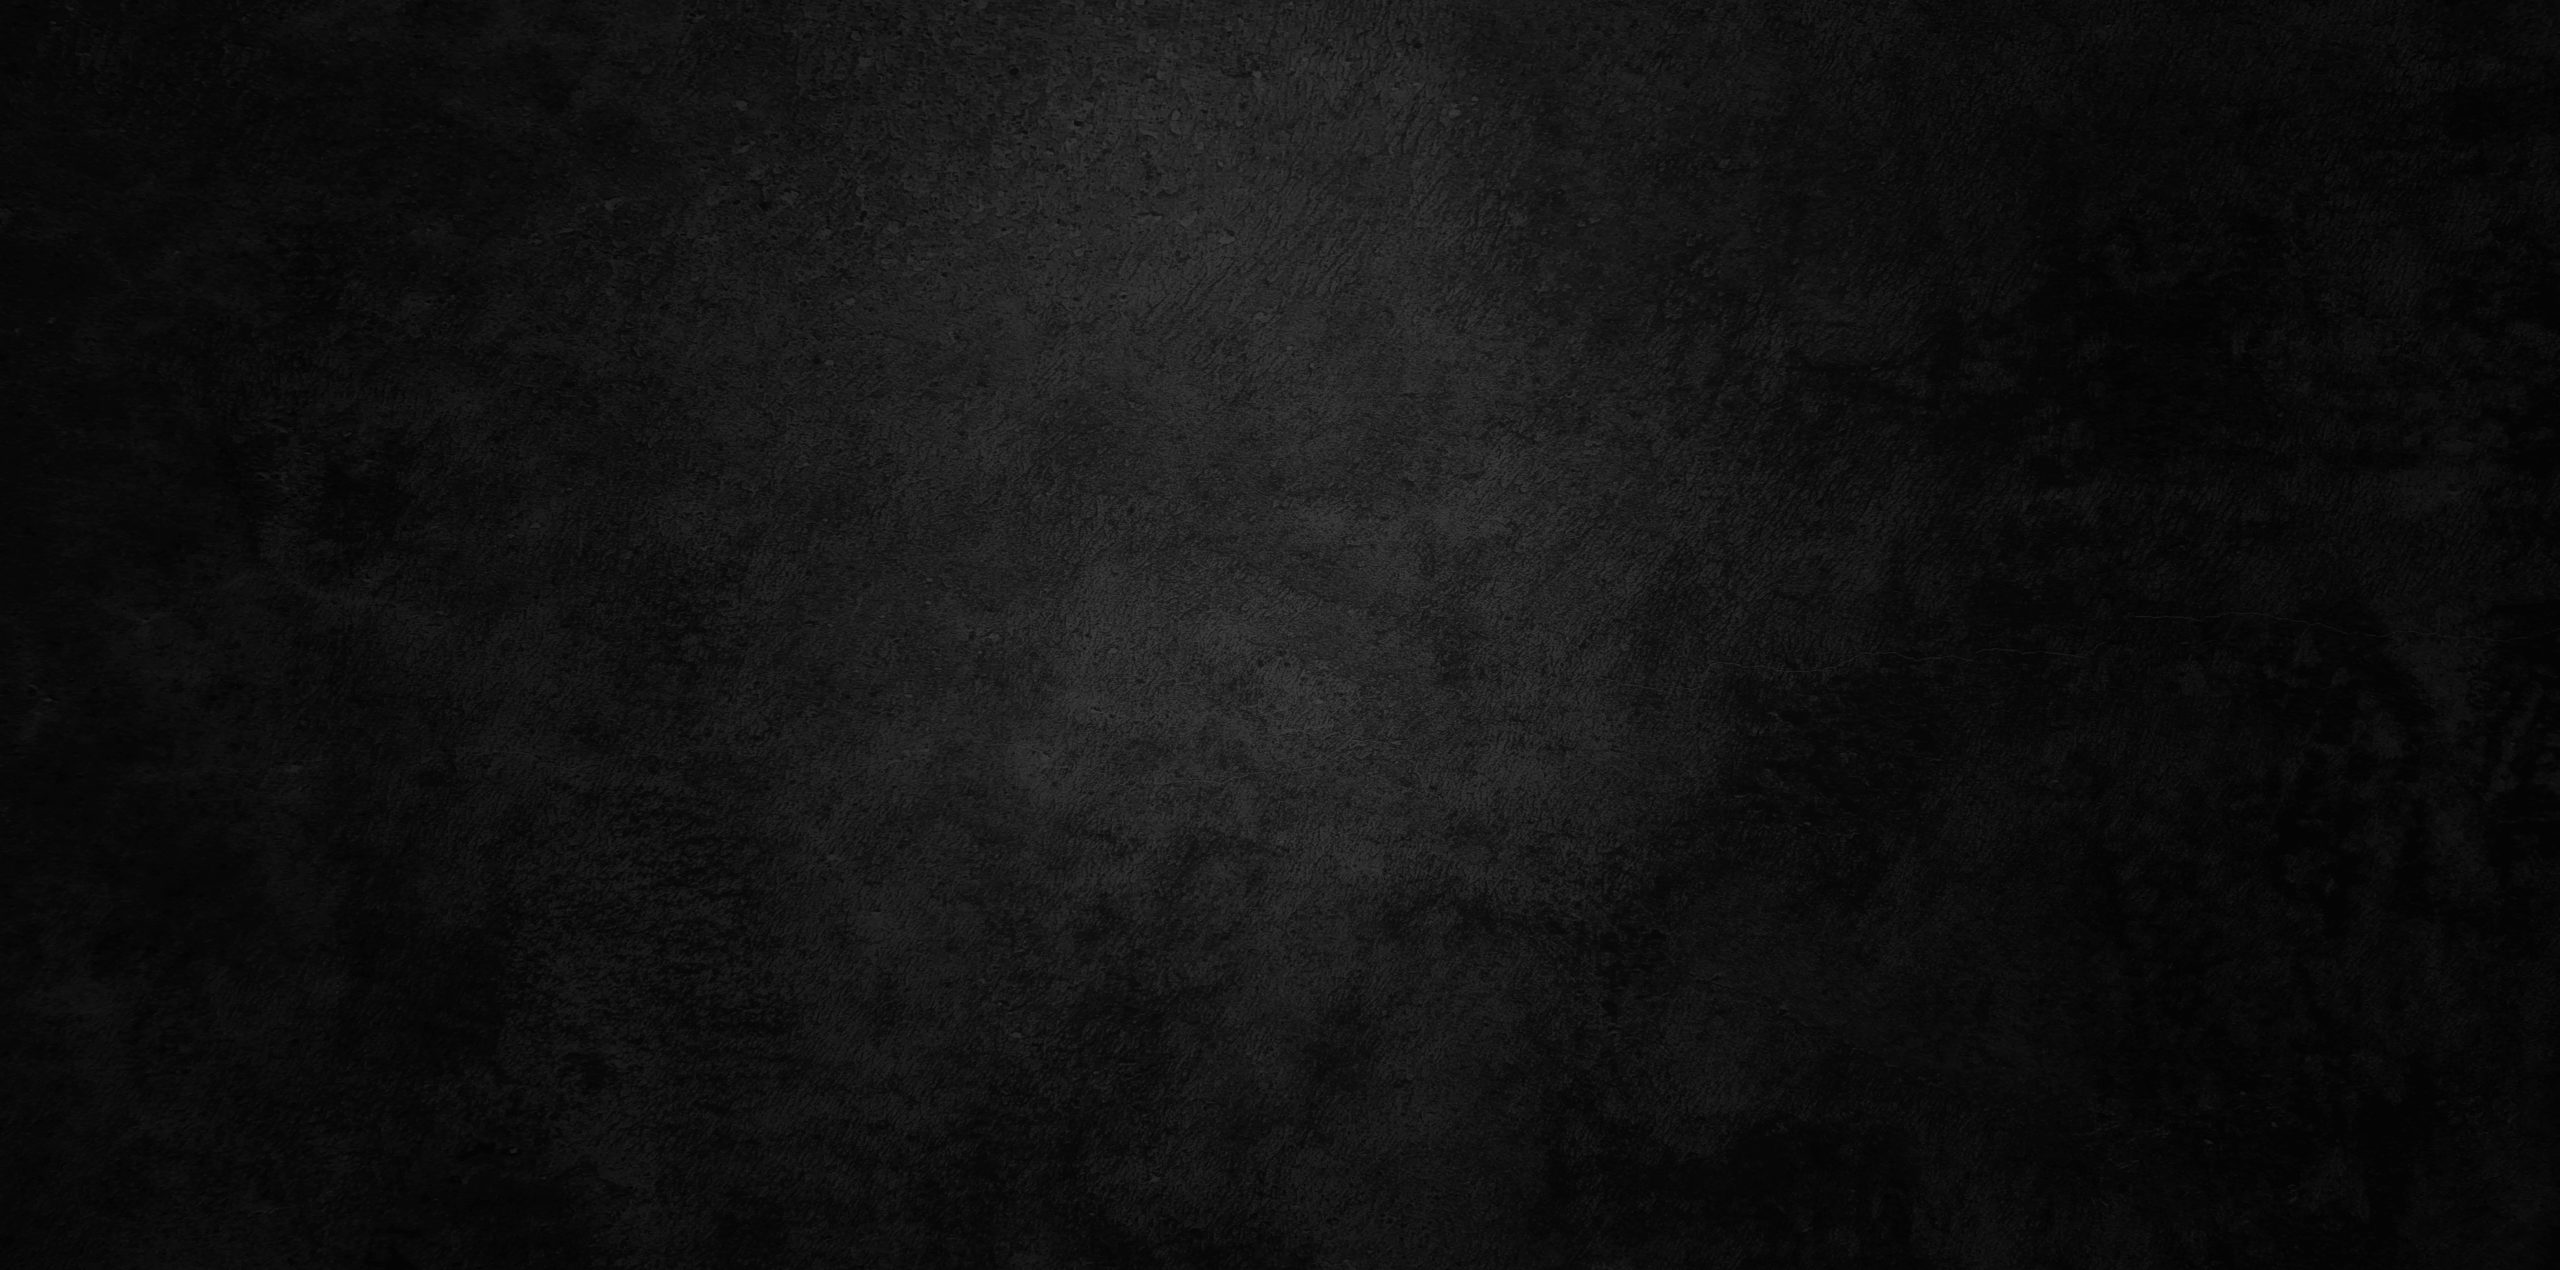
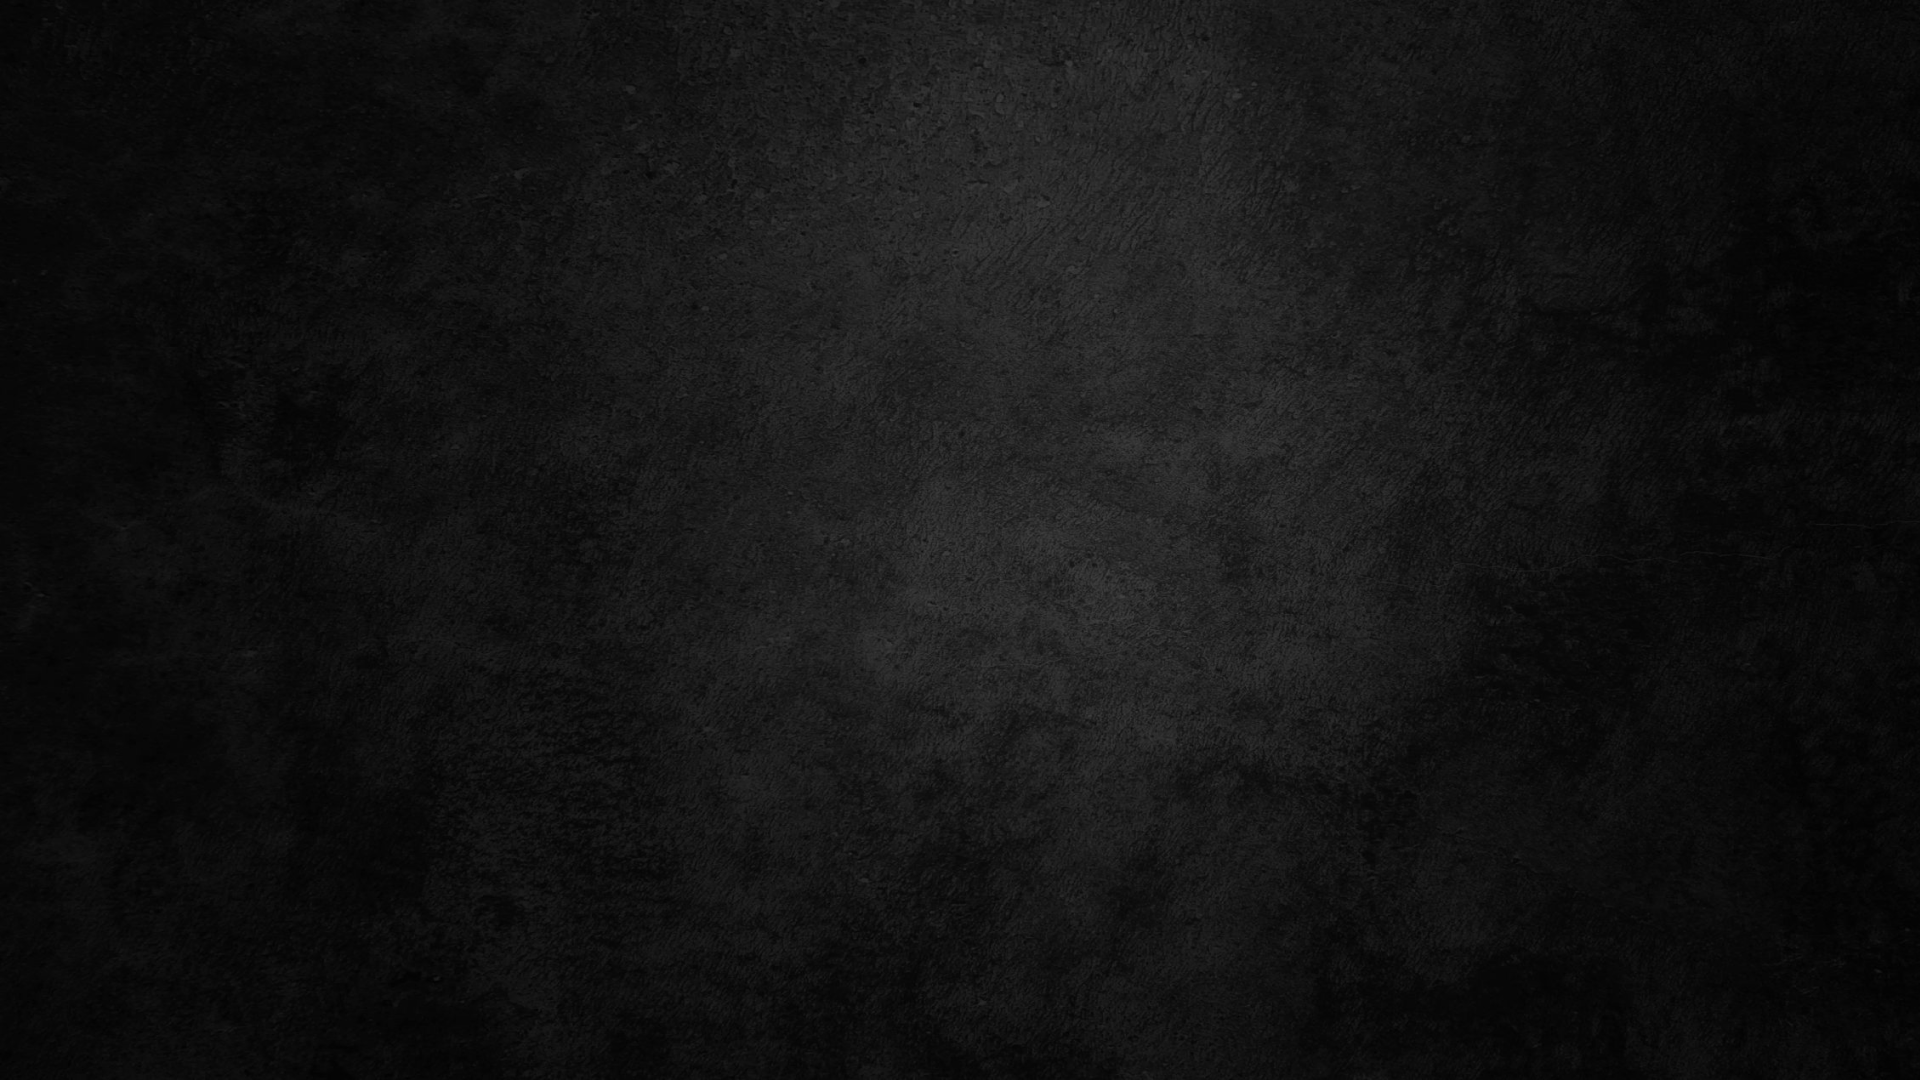
Upload

diff --git a/src/routes/app.scss b/src/routes/app.scss
@@ -3,7 +3,7 @@ body::-webkit-scrollbar {
 }
 
 body {
-    background: linear-gradient(rgba(0,0,0,0.6), rgba(0,0,0,0.6)), url('background.jpg');
+    background:  url('background.jpg');
     background-size: cover;
     background-blend-mode: multiply ;
     min-height: 100vh;
